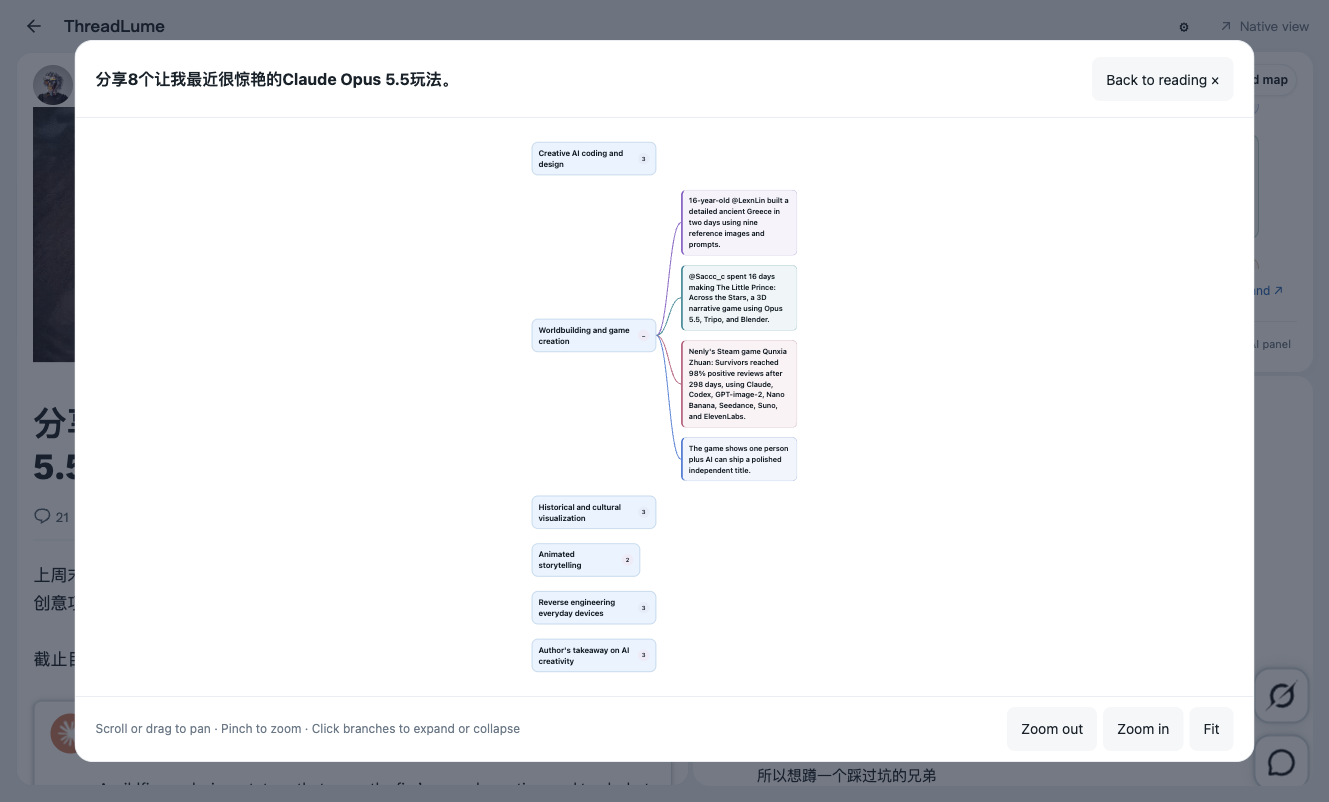
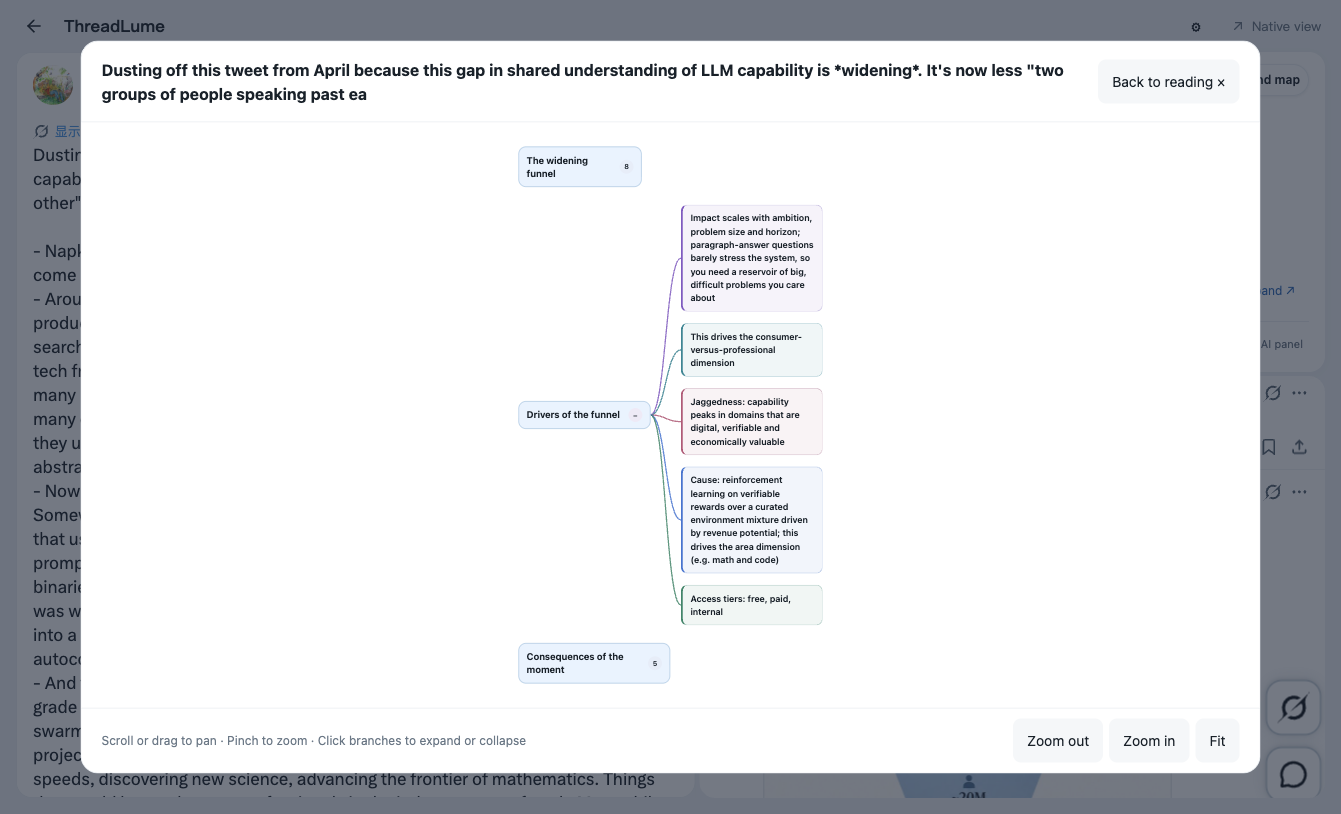
docs: add Chinese README and English product screenshots

diff --git a/README.zh-CN.md b/README.zh-CN.md
@@ -1,0 +1,104 @@
+<p align="center"><picture><source media="(prefers-color-scheme: dark)" srcset="public/brand/logo-dark.svg"><img src="public/brand/logo-light.svg" alt="ThreadLume" width="420"></picture></p>
+<p align="center"><strong>Read Beyond the Post.</strong><br>为 X 提供原生双栏阅读、AI 摘要、视频章节和交互脑图。</p>
+
+[English](README.md) · **简体中文**
+
+[安装](#安装) · [架构](docs/architecture.md) · [工程案例](docs/case-study.md) · [验收记录](docs/validation.md) · [隐私说明](PRIVACY.md)
+
+ThreadLume 将原帖、媒体和评论并排呈现。你可以阅读长文、观看带字幕的视频、展开脑图，再返回时间线继续浏览。
+
+**预览版本：** 面向桌面 Chromium 浏览器，通过「加载已解压的扩展程序」安装。AI 功能需要自行配置兼容 API 服务；基础阅读器无需 AI 即可使用。ThreadLume 是独立项目，与 X Corp. 无隶属关系，也未获其背书。
+
+## 实际效果
+
+![英文帖子的原生双栏阅读](docs/assets/reader.png)
+
+| 长文摘要 | 交互脑图 |
+| --- | --- |
+| ![英文长文摘要](docs/assets/summary.png) | ![交互脑图](docs/assets/mindmap.png) |
+
+**视频字幕与章节**
+
+![视频原生字幕与 AI 章节](docs/assets/video-captions.png)
+
+**AI 服务配置**
+
+![AI 服务设置](docs/assets/settings.png)
+
+以上均为真实浏览器截图，来源和验证条件见[验收记录](docs/validation.md)。演示视频将另行制作。界面可切换为简体中文，AI 输出语言独立设置。
+
+## 核心能力
+
+- **原生阅读：** 原帖、视频和评论保留 X 自身的交互，在双栏布局中集中阅读。
+- **AI 摘要与视频章节：** 总结合适的长文和当前可用字幕，点击章节可跳转至原生播放器的对应位置。
+- **交互脑图：** 展开分支、平移、缩放、适应画布并复制结构化大纲。
+- **渐进显示：** 可开启流式模式，在完整响应结束前阅读摘要和经过校验的脑图预览。
+- **请求控制：** 优先生成当前视图，可停止、显式重试和复用缓存；未完成的输出不会写入成功缓存。
+- **自定义 AI 服务：** 自行填写 HTTPS Chat Completions API、模型和 Key，不内置供应商账号。
+- **独立语言偏好：** 支持英文和简体中文界面，分别选择并记住 AI 输出语言。
+- **浅色与深色主题：** 跟随 X，或为阅读器选择独立主题。
+
+## 安装
+
+准备 Node.js 22.12+、npm 和当前版本的桌面 Chromium 浏览器。
+
+```sh
+git clone https://github.com/devon-kong/ThreadLume.git
+cd ThreadLume
+npm ci
+npm run build
+```
+
+1. 打开 `chrome://extensions/`，启用「开发者模式」。
+2. 点击「加载已解压的扩展程序」，选择 `dist-extension-native/`。
+3. 刷新 X 标签页，然后打开帖子。
+
+也可以从 [Releases](https://github.com/devon-kong/ThreadLume/releases) 下载 ZIP，解压后加载包含 `manifest.json` 的目录。
+
+更新时，重新构建、重载扩展并刷新 X。请保持相同的安装目录，以保留扩展身份和本地设置。新的仓库目录或浏览器配置文件不会自动获得原有 API 配置。
+
+## 配置 AI
+
+打开 ThreadLume 设置，点击 **Add AI service／添加 AI 服务**，填写服务名称、HTTPS Base URL、模型和 API Key。点击 **Save, test & enable／保存、检测并启用** 后，只申请该域名的访问权限，并发送最小兼容性检测请求；检测不会发送当前文章。
+
+连接成功后，打开合适的内容会自动生成当前视图；另一个视图在选中时生成。供应商的收费和用量限制仍然适用。流式模式需要主动开启，并在保存时验证；不支持流式时不会自动降级或重发。
+
+**界面语言与 AI 输出语言分别设置。** 切换界面语言仅更新自有控件；切换输出语言会按显式切换规则处理当前任务，各语言的缓存相互隔离。X 原生菜单、评论和帖子正文继续使用 X 自身的语言与原始内容。
+
+原豆包扩展桥接已停用。旧数据仍保留在本地，但不会尝试连接、恢复或调用豆包。请选择已配置的兼容 API 服务继续使用 AI。
+
+## 工程亮点
+
+- **原生页面生命周期：** 通过有界的布局适配、所有权和恢复机制保留 X 虚拟列表中的内容，避免重新实现评论系统。
+- **异步可靠性：** 限定任务归属，支持取消、拒绝迟到响应、Worker 恢复和明确的失败状态。
+- **服务绑定：** 配置与 Key 版本化，检测成功后原子发布，并按端点处理权限。
+- **渐进可视化：** 校验部分输出，控制脑图初始展开深度，保持渲染稳定，各视图使用独立缓存。
+- **验证方法：** 行为回归测试、构建隔离检查，以及与离线测试明确区分的真实浏览器证据。
+
+[工程案例](docs/case-study.md)介绍问题、决策及取舍；[架构说明](docs/architecture.md)记录运行时边界。这些技术文档当前为英文。
+
+## 开发
+
+```sh
+npm test              # 构建唯一产物并运行 Native 全套测试
+npm run build:current # 与 npm run build 输出相同
+npm run build:native  # 与 npm run build 输出相同
+```
+
+`native-extension/` 为产品代码，`tests/native/` 为回归测试，`scripts/` 为构建工具，`docs/` 为当前技术和发布文档。构建产物和依赖不提交到仓库。
+
+## 支持范围与限制
+
+- 面向桌面窗口；宽度低于 980 CSS 像素时隐藏 AI 面板，保留 X 原生视图。
+- 视频 AI 使用当前可用的原生字幕，可能不覆盖整个视频。不下载视频、不做语音识别，也不会自动点击字幕按钮。
+- 短帖和没有可用字幕的视频不会生成 AI 内容。
+- 阅读器依赖 X 的 DOM 和有界的 React 内部布局适配。X 改版可能导致适配失效，此时将控制权交还原生视图。
+- 回复、点赞、收藏等账号操作仍由 X 处理。ThreadLume 不主动发起 X 私有 HTTP API 请求。
+- 飞书收藏目前为禁用的未来功能，不属于预览版本的可用能力。
+- 模型质量、格式遵循、延迟和可用性取决于所选服务。已验证与未验证场景见[验收记录](docs/validation.md)。
+
+## 项目信息
+
+[贡献指南](CONTRIBUTING.md) · [安全说明](SECURITY.md) · [隐私说明](PRIVACY.md) · [更新记录](CHANGELOG.md)
+
+代码采用 [MIT 许可证](LICENSE)。原有版权声明予以保留，依赖及来源致谢见[第三方声明](THIRD_PARTY_NOTICES.md)。X 和 Twitter 商标属于各自权利人。

diff --git a/docs/validation.md b/docs/validation.md
@@ -45,7 +45,7 @@ Native X menus, comments and source content keep X's own language. AI output dep
 
 ## Timing observations
 
-These are individual observations, **not a benchmark or improvement claim**. No previous percentage improvement is reused. Service latency, model output length, source and cache state vary.
+The article timing sample is the [public Chinese-language article by @Khazix0918](https://x.com/Khazix0918/status/2112794968981139875), not the English post used in the updated README screenshots. These are individual observations, **not a benchmark or improvement claim**. No previous percentage improvement is reused. Service latency, model output length, source and cache state vary.
 
 | Sample | Mode / cache | First readable in foreground | Complete display | Backend completion |
 | --- | --- | --- | --- | --- |
@@ -56,10 +56,11 @@ Timers start at request admission; source extraction is separately measured. Fir
 
 ## Screenshot provenance
 
-All four README images are real screenshots of the 0.12.0 candidate's final product code, captured through browser interaction. The summary image is a direct crop of the AI card; map branches were interactively collapsed for readability. No generated interface or fabricated model output is used.
+All five README images are real screenshots of the v0.12.0 product, captured through browser interaction. The English reading examples and captioned-video image were refreshed in a documentation-only follow-up on 21 October 2026; the release code and package are unchanged. Capture viewports were 1341 × 814 CSS pixels for the English post and 1329 × 802 for the video. The summary image is a direct crop of the AI card; map branches were interactively collapsed for readability. No generated interface or fabricated model output is used.
 
-- Reader / summary / mind map: [public article by @Khazix0918](https://x.com/Khazix0918/status/2112794968981139875).
-- Video acceptance: [public captioned video by @GoSailGlobal](https://x.com/GoSailGlobal/status/2111665973891854815).
+- Reader / summary / mind map: [public English post by @karpathy](https://x.com/karpathy/status/2109361546505966046), with English output from the existing configured service.
+- Video screenshot: [public captioned video by @PromptWizard](https://x.com/PromptWizard/status/2053112760381436066). Native English captions were explicitly enabled through the player UI; the screenshot shows those captions alongside completed AI chapters. This is a separate showcase sample from the release acceptance video below.
+- Original release video acceptance: [public captioned video by @GoSailGlobal](https://x.com/GoSailGlobal/status/2111665973891854815).
 - Settings: real configured service, with diagnostics closed and no API-key value displayed.
 
 Source posts and images belong to their respective authors. Public handles appearing in the screenshots identify the quoted content; no private conversation is shown.

diff --git a/README.md b/README.md
@@ -1,5 +1,7 @@
-<p align="center"><img src="public/brand/logo-light.svg" alt="ThreadLume" width="420"></p>
+<p align="center"><picture><source media="(prefers-color-scheme: dark)" srcset="public/brand/logo-dark.svg"><img src="public/brand/logo-light.svg" alt="ThreadLume" width="420"></picture></p>
 <p align="center"><strong>Read Beyond the Post.</strong><br>A native two-column reader for X, with AI summaries, video chapters and interactive mind maps.</p>
+
+**English** · [简体中文](README.zh-CN.md)
 
 [Installation](#installation) · [Architecture](docs/architecture.md) · [Engineering case study](docs/case-study.md) · [Validation](docs/validation.md) · [Privacy](PRIVACY.md)
 
@@ -14,6 +16,12 @@ ThreadLume keeps the original post and its media beside the conversation. Read a
 | Article summary | Interactive mind map |
 | --- | --- |
 | ![Article summary](docs/assets/summary.png) | ![Interactive mind map](docs/assets/mindmap.png) |
+
+**Video captions and chapters**
+
+![Native video captions with AI chapters](docs/assets/video-captions.png)
+
+**AI service settings**
 
 ![AI service settings](docs/assets/settings.png)
 
